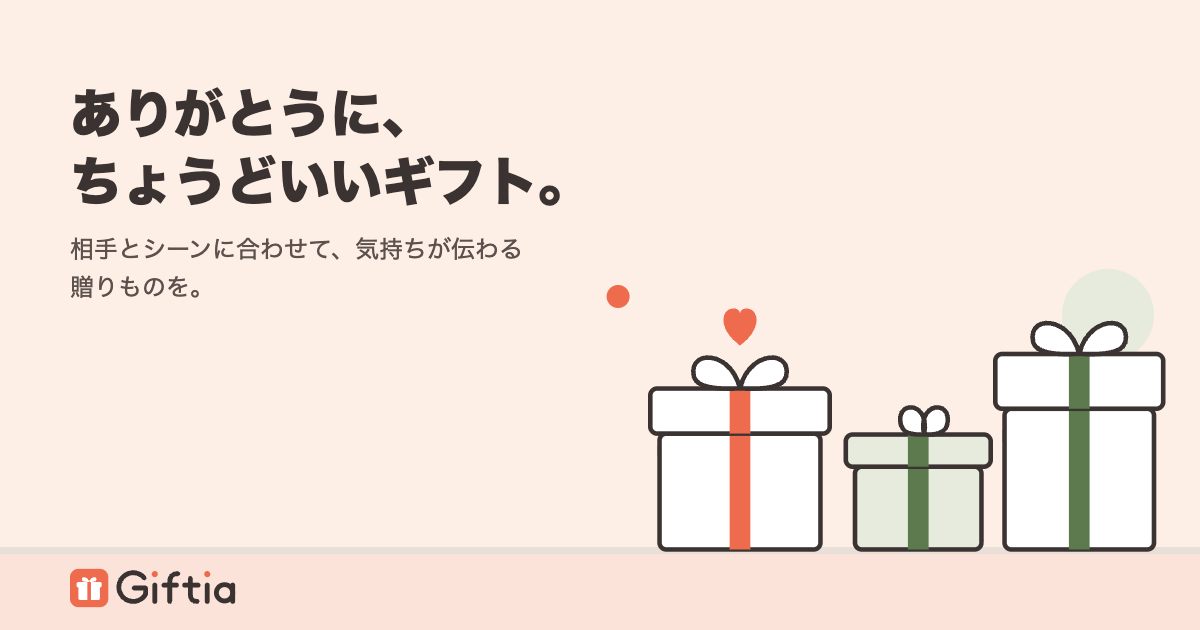
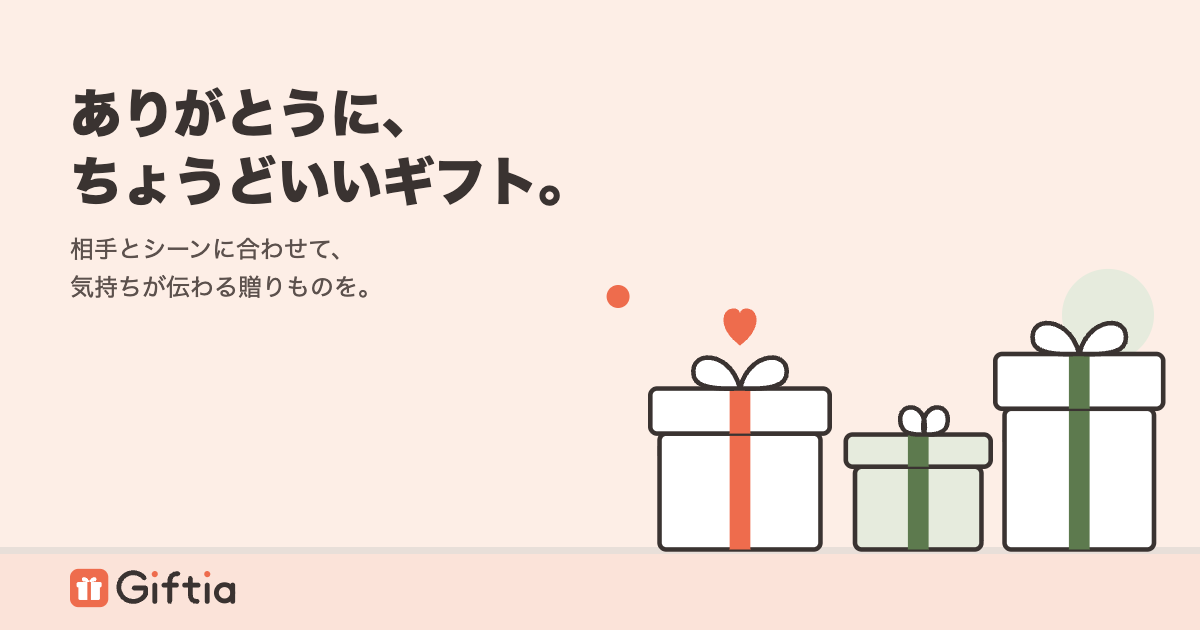
docs: ヒーローの下の行をどの幅でも 2 行に統一、トップ OGP も 2 行、899px 以下の高さ 360px（追記 23）。design/ の hero.css・check.png・ogp-top.png を差し替え

Changed region(s): [[0.0617, 0.3619, 0.4317, 0.4825]]

diff --git a/02_プロジェクト/giftia-ui-renewal/design/hero.css b/02_プロジェクト/giftia-ui-renewal/design/hero.css
@@ -4,6 +4,6 @@
 .hero .txt{position:absolute;left:48px;top:50%;transform:translateY(-50%);max-width:calc(100% - var(--ah)*1.445 - 48px - max(24px,4vw) - 24px)}
 .hero h1{margin:0 0 8px;font-size:30px;line-height:1.3;color:#3a3331}
 .hero p{margin:0;color:#5c514d;font-size:14px}
-.hero p span{display:inline-block}
-@media(max-width:899px){.hero{--ah:200px;height:350px}.hero .txt{left:16px;top:24px;transform:none;max-width:calc(100% - 32px)}.hero img{right:16px}}
-@media(max-width:480px){.hero h1{font-size:24px}.hero p span{display:block}}
+.hero p span{display:block}
+@media(max-width:899px){.hero{--ah:200px;height:360px}.hero .txt{left:16px;top:24px;transform:none;max-width:calc(100% - 32px)}.hero img{right:16px}}
+@media(max-width:480px){.hero h1{font-size:24px}}

diff --git a/02_プロジェクト/giftia-ui-renewal/仕様.md b/02_プロジェクト/giftia-ui-renewal/仕様.md
@@ -24,8 +24,8 @@ R-01（共同購入者）の導線から書く（ADR-002）。決定の根拠は
 | SP-16 | F-20, F-21, F-23 | 検索結果のカードを見る。詳細を開く | 結果あり / 詳細の欄 | 設計.md 参照（D-01・D-28・D-29・D-34） | なし（読み取りのみ） | **決め手の 1 行**（第2弾 P）。並びと文言（PR で PM が確かめる）: ①「📦 {M}/{D}までに届く（目安）」（`delivery_days` が値ありのとき。日付は SP-26） ②「🎀 ラッピング可」（`gift_wrap`＝1 のとき。不可と値なしは出さない。SP-03 と同じ） ③「在庫あり」（`stock` が1以上のとき。G9。在庫なし（0）は今どおり詳細の「在庫なし」（SP-12）で、決め手には出さない） ④「{シーン}で{n}回」（シーンを選んでいて、回数 n が1以上のとき。0 は出さない）。絵文字は飾りで、意味は文字で伝える（読み上げでは絵文字を読ませない）。値の無い決め手は出さない（値を作らない。OPEN-06）。カード（SP-11・SP-15）と詳細（SP-12）で、同じ商品なら同じ値・並び・文言。**回数の数え方**: 送別＝推定シーン「送別」かつ会社宛て（今の D-04 と同じ）、お礼＝「ビジネスのお礼」、誕生日＝「友人への誕生日」と「家族への誕生日」の合計。「毎年決まった相手への贈答」は数えない（確定。PM 11/14「回数は案通り」）。シーンを選んでいない画面（R-02 の一覧、トップのおすすめから開いた詳細）では④を出さない（P-1「選んだシーンに合わせて出す」）。トップのおすすめのカード（SP-30）にも同じ1行を出す |
 | SP-17 | F-22 | 詳細を開く | 詳細の欄 | 設計.md 参照（D-29・D-35） | なし（読み取りのみ） | **贈った人の声**（第2弾 P。欄の名前は決定 2026-11-13）。選び方: その商品の `reviews` のうち、`rating` が4以上、`comment` が NULL でなく空白だけでもない行を、`posted_at` の新しい順（同じ日は本文の文字の順）に並べ、本文が一字一句同じ行は1件にまとめ、最大2件。0件なら欄ごと出さない（見出しも出さない）。出すのは本文（「」で囲む）と星（「★5」）だけ。投稿した人の ID・名前・投稿日は出さない（N-13）。長い文は切らずに全文を出す（PR で PM が確かめる）。架空データには商品とシーンが合わない声がある（例: ハンドクリームに「出産祝いに」）が、今回は除かない（ADR-008）。置き場所は詳細の欄の決め手（SP-16）のすぐ下 |
 | SP-18 | F-24, F-25, F-26 | 詳細・お気に入り・カートで「カートに入れる」「注文へ進む」を押す。行の商品名を押す | 詳細の欄 / お気に入りのパネル / カートのパネル | 設計.md 参照（D-29・D-30・D-31） | ブラウザ内の保存だけ | **買う手前の行き止まりをなくす**（第2弾 U-12・14・15）。①詳細（U-14）: 在庫0（`status`＝`out_of_stock`）の商品は、「カートに入れる」を「在庫なし」の文字にして押せなくする。②お気に入りのパネル（U-12）: 各行に「カートに入れる」（SP-14 の追加と同じ動き。通知も同じ）を置く。在庫0は①と同じく押せない。「この商品は見つかりません」（404）の行には置かない。行の商品名を押すと、パネルを閉じて検索結果の詳細の欄でその商品を開く（`/search?product=…`。SP-09 のおすすめと同じ開き方）。③カートのパネル（U-15）: 買える商品（販売終了・在庫なし・読めない商品を除いた商品）が0件のとき、「注文へ進む」を押せなくし、ボタンのすぐ上に「買える商品がありません」と出す（空のカートも0件）。1件以上なら今どおり押せて「デモのため、注文はできません」。各行に小さい画像（カテゴリー共通イラスト「イメージ」）と、商品名から②と同じ開き方で詳細を開く道を置く（販売終了の行は商品が無いので画像も道も置かない）。パネルの下に「買い物を続ける」を置き、押すとパネルを閉じて検索結果（`/search`）へ移る。すでに検索結果にいるときは閉じるだけで、条件は変えない。どのボタンも縦横44px 以上（N-12） |
-| SP-19 | F-28 | ブラウザのタブを見る。共有リンクを LINE などに貼る | — | なし（固定のページ情報） | なし | **アイコンと OGP**（第2弾 U-21）。サイトのアイコン（favicon）を全ページに置く（絵柄は Mi-rin の案 A「オレンジの贈り物」。PM 11/14「アイコンは案Aで」）。プレビュー（OGP）はページごとに画像・タイトル・説明を出し分け、画像は2枚（PM 11/14「1で。分けることで進めて」。絵はどちらもヒーローの案 A。PM 11/14「案Aがいいですが、文字と絵が被ってるところが気になります」）。①共有ページ（`/s/…`）: 画像は「どれがいいと思う？／いいねで教えて。」の固定の1枚、説明「どれがいいと思う？いいねで教えて。」、タイトル「Giftia の贈りもの候補」（今どおり）。商品名・理由・価格は出さない（N-15）。noindex は今どおり（N-07）。②トップとその他のページ: 画像は今のサイトの見出し「ありがとうに、ちょうどいいギフト。」と下の行「相手とシーンに合わせて、気持ちが伝わる贈りものを。」の固定の1枚、タイトル「Giftia」（今どおり）、説明は見出しと下の行をつないだ文（今の「ギフトを探して、仲間に共有リンクで送る」から変える。PM 11/15「今のサイトの見出しにしよう」）。**ロゴ（アイコン A ＋「Giftia」の文字。PM 11/15「アイコンをロゴにしよう。ヘッダーにも同じロゴを使おう」）**を、①②の画像の同じ場所（左下の帯）と、ヘッダーのロゴ（SP-08）に使う。ヘッダーのロゴの大きさは Mi-rin の仕上げ（設計 D-36・D-37（ファイルは `design/`））による。説明文はいいね（SP-28）と同じ版で公開する |
-| SP-20 | F-29 | トップと検索結果を見る | 共通 | なし | なし | **見た目の直し**（第2弾 T。CSS と画像だけで、動きは変えない）。T1 ヒーロー: ぼかした丸や点の飾りをやめ、画像1枚。画像は自作の案 A（並ぶ贈り物。Mi-rin 作。外の素材は使わない。T-3・G1。PM 11/14「案Aがいいですが、文字と絵が被ってるところが気になります」）。**どの幅（375px〜PC）でも、ヒーローの見出しの文字と絵が重ならない**（G1）。見出しの文は今のサイトの文のまま変えない（「ありがとうに、ちょうどいいギフト。」の2行と下の行「相手とシーンに合わせて、気持ちが伝わる贈りものを。」。確定。PM 11/15「今のサイトの見出しにしよう」）。768px で文字の下にできる空きは今のままでよい（確定。PM 11/15「やり切るので、落とさないです。速さはおっけー。をの部分は改行で読みやすく。768pxはおっけー。」）。下の行は、スマホの幅で「を。」のように1〜2文字だけが次の行に落ちないよう、読みやすい所で改行する（同じ PM 11/15）。480px 以下では「相手とシーンに合わせて、」の「、」の後で折って2行にし、481px 以上は1行（やり方は 設計 D-36・D-37（ファイルは `design/`） による）。T2 シーン・カテゴリーのタイル: 枠線を外し、白い面にする。T3 オレンジ（強調の色）: 選択中とロゴだけに使う。例外として「カートに入れる」「共有リストを作る」はオレンジ（T-2）。T4 カテゴリーのアイコン: 焦げ茶にして、文字と横に並べる。T5 商品カードの画像: 丸＋アイコンをやめ、色の面にする。「イメージ」の表示は小さく残す（OPEN-06）。T6 文字: 見出しは太く、価格は大きく、補足は小さく灰色。T5・T6 はトップのおすすめのカードと、検索結果のカード（R-01・R-02）に同じように当てる（T-4）。色は1か所の設定から使い（N-14）、文字と背景の差は WCAG AA（N-12）を守る |
+| SP-19 | F-28 | ブラウザのタブを見る。共有リンクを LINE などに貼る | — | なし（固定のページ情報） | なし | **アイコンと OGP**（第2弾 U-21）。サイトのアイコン（favicon）を全ページに置く（絵柄は Mi-rin の案 A「オレンジの贈り物」。PM 11/14「アイコンは案Aで」）。プレビュー（OGP）はページごとに画像・タイトル・説明を出し分け、画像は2枚（PM 11/14「1で。分けることで進めて」。絵はどちらもヒーローの案 A。PM 11/14「案Aがいいですが、文字と絵が被ってるところが気になります」）。①共有ページ（`/s/…`）: 画像は「どれがいいと思う？／いいねで教えて。」の固定の1枚、説明「どれがいいと思う？いいねで教えて。」、タイトル「Giftia の贈りもの候補」（今どおり）。商品名・理由・価格は出さない（N-15）。noindex は今どおり（N-07）。②トップとその他のページ: 画像は今のサイトの見出し「ありがとうに、ちょうどいいギフト。」と下の行「相手とシーンに合わせて、」／「気持ちが伝わる贈りものを。」（ヒーローと同じ2行。PM 11/15「2段に全て統一した方が綺麗じゃない？」）の固定の1枚、タイトル「Giftia」（今どおり）、説明は見出しと下の行をつないだ文（今の「ギフトを探して、仲間に共有リンクで送る」から変える。PM 11/15「今のサイトの見出しにしよう」）。**ロゴ（アイコン A ＋「Giftia」の文字。PM 11/15「アイコンをロゴにしよう。ヘッダーにも同じロゴを使おう」）**を、①②の画像の同じ場所（左下の帯）と、ヘッダーのロゴ（SP-08）に使う。ヘッダーのロゴの大きさは Mi-rin の仕上げ（設計 D-36・D-37（ファイルは `design/`））による。説明文はいいね（SP-28）と同じ版で公開する |
+| SP-20 | F-29 | トップと検索結果を見る | 共通 | なし | なし | **見た目の直し**（第2弾 T。CSS と画像だけで、動きは変えない）。T1 ヒーロー: ぼかした丸や点の飾りをやめ、画像1枚。画像は自作の案 A（並ぶ贈り物。Mi-rin 作。外の素材は使わない。T-3・G1。PM 11/14「案Aがいいですが、文字と絵が被ってるところが気になります」）。**どの幅（375px〜PC）でも、ヒーローの見出しの文字と絵が重ならない**（G1）。見出しの文は今のサイトの文のまま変えない（「ありがとうに、ちょうどいいギフト。」の2行と下の行「相手とシーンに合わせて、気持ちが伝わる贈りものを。」。確定。PM 11/15「今のサイトの見出しにしよう」）。768px で文字の下にできる空きは今のままでよい（確定。PM 11/15「やり切るので、落とさないです。速さはおっけー。をの部分は改行で読みやすく。768pxはおっけー。」）。下の行は、どの幅でも「相手とシーンに合わせて、」／「気持ちが伝わる贈りものを。」の2行にする（確定。PM 11/15「2段に全て統一した方が綺麗じゃない？」。前の決定「480px 以下だけ2行、481px 以上は1行」を置き換え）。文字の表記は今のサイトのまま（やり方は 設計 D-37（ファイルは `design/`） による）。T2 シーン・カテゴリーのタイル: 枠線を外し、白い面にする。T3 オレンジ（強調の色）: 選択中とロゴだけに使う。例外として「カートに入れる」「共有リストを作る」はオレンジ（T-2）。T4 カテゴリーのアイコン: 焦げ茶にして、文字と横に並べる。T5 商品カードの画像: 丸＋アイコンをやめ、色の面にする。「イメージ」の表示は小さく残す（OPEN-06）。T6 文字: 見出しは太く、価格は大きく、補足は小さく灰色。T5・T6 はトップのおすすめのカードと、検索結果のカード（R-01・R-02）に同じように当てる（T-4）。色は1か所の設定から使い（N-14）、文字と背景の差は WCAG AA（N-12）を守る |
 | SP-21 | F-39 | シーンなしの検索結果で並びを選ぶ | 結果あり | 設計.md 参照（D-28 の `sort`） | なし（読み取りのみ） | **並び替え**（第2弾 A1）。結果の見出しの右に、並びを選ぶ部品（おすすめ／安い順／評価順／早く届く順）。初期値は「おすすめ」（今の SP-11 の並び）。安い順＝価格の低い順、評価順＝評価の高い順（評価の無い商品は最後）、早く届く順＝配送日数の少ない順（値の無い商品は最後）。同じ値どうしの順は設計 D-43 の表のとおり（安い順・早く届く順は評価の高い順（評価なしは後ろ）→ 商品ID順、評価順はレビュー件数の多い順 → 商品ID順、おすすめは商品ID順）。選んだ並びは URL に持ち（「おすすめ」のときは付けない）、変えたら同じ条件のまま1ページ目に戻る。ページ送りは選んだ並びのまま。R-01 の10件（SP-15）には出さない |
 | SP-22 | F-40 | 詳細を開く。「最近見た商品」を見る | — | なし（ブラウザ内保存） | ブラウザ内の保存だけ | **最近見た商品**（第2弾 A2）。詳細の欄に商品が出たとき（404・失敗のときは入れない）、その商品IDを先頭に入れる。同じ商品は1件にまとめて先頭に移す。最大6件で、7件目を入れたら一番古いものを消す。検索結果の画面の下（ページ番号の下）に「最近見た商品」として新しい順に横に並べ、押すと詳細の欄を開く。0件・ブラウザに保存できないときは欄を出さない 第2弾の細部（確定（PM 11/15「1-3おすすめ通りで。4は読めた分だけ出す。5.つける」））: 1件のカードは画像（「イメージ」）・商品名（2行まで）・価格（税込）・届く日（目安。SP-26）。ハートと「カートに入れる」は付けず、カード全体が詳細を開くリンク（縦横44px以上）。横に並べる帯（カード幅140px、帯の中だけ横に動く）。置き場所は R-02 はページ番号の下、R-01 は10件の候補の下。在庫なしは価格の代わりに「在庫なし」。見つからない商品は出さず、保存からも消す。読み込めなかった商品は出さず、読めた分だけ出す。全部読めなかったときだけ「最近見た商品を読み込めませんでした」と「もう一度」（取り方は設計 D-47）。 |
 | SP-23 | F-41 | お気に入りのパネルで、比べたい商品を選んで「比べる」を押す | お気に入りのパネル | なし（詳細 API を使う） | なし | **お気に入りで比べる**（第2弾 A3）。各行に「比べる」の選択（チェック）を置く。2〜3件を選ぶと「比べる」ボタンが押せ、パネルの中に価格（税込）・届く日（目安。SP-26）・ラッピング・評価（件数）を商品ごとの列で並べる。3件選んでいる間は4件目を選べない。値の無い項目は空欄にせず「—」。一覧に置く常設の比較トレイは作らない（A-1） 第2弾の細部（確定（PM 11/15「1-3おすすめ通りで。4は読めた分だけ出す。5.つける」））: 選んでいる間は「比べる（{n}件選択中）」。表はパネルの中で一覧から替わる（重ねない）。列＝商品（見出しに画像・商品名（押すと詳細）・在庫なしの印）、行＝価格（税込）／届く日（目安）／ラッピング（あり・なし・—）／評価（「4.7（120件）」）。375px で収まり、収まらない幅は表の中だけ横に動く。表の上の「← お気に入りにもどる」か Esc で一覧に戻り、「比べる」ボタンへフォーカスが戻る（選択は残る）。パネルを閉じたら選択は全部外れる。表の中ではお気に入りを外せない。一覧で外した商品が選択中なら選択も外れ、2件未満で「比べる」は押せない。表を開いている間に別のタブでお気に入りが外れたら、その列を消し、2件未満なら一覧に戻って「比べる商品が2件未満になりました」。見つからない商品は表から除き「見つからない商品は比べられません」（設計 D-47）。各列の下に「カートに入れる」を付ける（PM 11/15「5.つける」）。押すとカートに入り、押した後の表示は詳細の「カートに入れる」と同じ（SP-14・SP-18）。販売終了・在庫なしの列は押せない（在庫なしは「在庫なし」）。ボタンは列の幅いっぱい、文字は 12px で 2 行に折ってよい（縦 44px 以上は保つ。375px の 3 列で 1 列が約 90px のため）（Mi-rin の確認 11/15。⑤の決定の細部）。 |
@@ -254,6 +254,7 @@ stateDiagram-v2
 | 2026-11-15 | SP-20・ADR-010（要件 N-03） | 落とす順番は未決、768px の空きは未決、K-10 の速さは AI の読み方 | 落とす順番は作らない（全部やり切る）。768px は今のまま。速さは確定。下の行は 1〜2 文字だけの行を作らない改行 | 仕上げの決定 | PM 11/15「やり切るので、落とさないです。速さはおっけー。をの部分は改行で読みやすく。768pxはおっけー。」 |
 | 2026-11-15 | SP-34・SP-06・SP-31（要件 N-03・N-09・N-16、要求 AC-21） | テスト設計で見つかった穴（第2弾-4〜8・10・11） | 30 分 0 秒は新しい訪問（K-4）、計測の印は URL の目印と合言葉（K-5）、販売終了の候補に「くわしく見る」を置かない（K-6）、250px 前後は 200〜300px（K-7）、新しい API の速さは第1弾と同じ基準（K-10）、消す手順は Terao 案を `DB管理手順.md` へ（K-11） | 期待結果を決められなかった | PM 11/15「7件ともおすすめ通りで」 |
 | 2026-11-15 | SP-19・SP-20・SP-08 | 見出しは仮「贈り物、いっしょに選ぼう」、トップの OGP もその文。ヘッダーは文字のロゴ | 見出しは今のサイトの文のまま。トップの OGP は今の見出し＋下の行。ロゴ（アイコン A＋「Giftia」）を OGP 2 枚の左下の帯とヘッダーに使う | 今の文で伝わる。ロゴを 1 つにそろえる | PM 11/15「今のサイトの見出しにしよう」「アイコンをロゴにしよう。ヘッダーにも同じロゴを使おう」 |
+| 2026-11-15 | SP-20・SP-19 | 下の行は 480px 以下だけ「、」の後で 2 行、481px 以上は 1 行 | どの幅でも 2 行。トップ用の OGP 画像も同じ 2 行。899px 以下のヒーローの高さは 360px（設計 D-37） | 2 行にそろえた方が綺麗 | 確定（PM 11/15「2段に全て統一した方が綺麗じゃない？」、god 追記 23） |
 | 2026-11-14 | SP-28 | いいねの取り消しは「案」（要件 F-34・要求 AC-20 は「もう一度は押せない」） | もう一度押すと取り消す（数は 0 を下回らない）に 3 文書でそろえた | 指示書 4 章 L と設計 D-39 の `on:false`。テスト設計「仕様に書かれていないこと」第2弾-2 | god 追記 13（指示書 4 章 L の決定に合わせる） |
 | 2026-11-14 | SP-21・SP-25 | 同じ値どうしは「おすすめ順（案）」「商品ID順（案）」 | 設計 D-43・D-42 の次の基準にそろえた | 仕様と設計の食い違い（テスト設計 第2弾-3） | god 追記 13 |
 | 2026-11-14 | SP-13・SP-23 | 決定 2026-11-13「比較トレイは作らない」 | お気に入りの中だけで2〜3件を比べる（A3）。一覧に置く常設の比較トレイは作らないまま | A3 はお気に入りの中だけの機能 | A-1 確定（PM 11/14） |

diff --git a/02_プロジェクト/giftia-ui-renewal/設計.md b/02_プロジェクト/giftia-ui-renewal/設計.md
@@ -248,7 +248,7 @@ LIMIT 2;
 - アイコン: 案 A（オレンジの贈り物。PM 11/14「アイコンは案Aで」）。仕上げは `design/`（Mi-rin 作。実装でそのまま `frontend/public/` に置く。`icon.svg` を `<link rel="icon" type="image/svg+xml">`、`icon-180.png` を apple-touch-icon、`icon-192/512.png`）。自作で外の素材は使わない。
 - OGP 画像は 2 枚に分け、ページごとに `og:image`・`twitter:image`・タイトル・説明を出し分ける（PM 11/14「1で。分けることで進めて」）。どちらもヒーロー案 A から作った 1200×630 の PNG（SVG は多くのプレビューで出ないため PNG）。仕上げは `design/ogp-share.png`・`design/ogp-top.png`（Mi-rin 作。左下の帯にロゴ、床の帯は左右の端まで通る）。`twitter:card` は `summary_large_image`。
 - 共有ページ（`src/app/s/[share_id]/page.tsx` の固定の `metadata`）: 画像 `ogp-share.png`（「どれがいいと思う？／いいねで教えて。」）、`description` と `og:description` に「どれがいいと思う？いいねで教えて。」。タイトルは今どおり「Giftia の贈りもの候補」。DB も共有リンクの中身も読まないので、商品名は枠の HTML に入らない（N-15）。いいね（D-39）と同じ版で公開する。
-- トップとその他のページ（`src/app/layout.tsx` の `metadata`。共有ページは上で上書き）: 画像 `ogp-top.png`（今のヒーローの見出し「ありがとうに、ちょうどいいギフト。」と下の行「相手とシーンに合わせて、気持ちが伝わる贈りものを。」。`frontend/src/app/page.tsx` の文のまま）、タイトル「Giftia」（今どおり）、`description` と `og:description` に見出しと下の行をつないだ文（PM 11/15「今のサイトの見出しにしよう」）。
+- トップとその他のページ（`src/app/layout.tsx` の `metadata`。共有ページは上で上書き）: 画像 `ogp-top.png`（今のヒーローの見出し「ありがとうに、ちょうどいいギフト。」と下の行「相手とシーンに合わせて、」／「気持ちが伝わる贈りものを。」の 2 行（ヒーローと同じ。PM 11/15「2段に全て統一した方が綺麗じゃない？」）。`frontend/src/app/page.tsx` の文のまま）、タイトル「Giftia」（今どおり）、`description` と `og:description` に見出しと下の行をつないだ文（PM 11/15「今のサイトの見出しにしよう」）。
 - ロゴ: ロゴ（アイコン A ＋「Giftia」の文字。PM 11/15「アイコンをロゴにしよう。ヘッダーにも同じロゴを使おう」）。仕上げは `design/logo.svg`（Mi-rin 作。viewBox 174.5×48。文字は太さ 5.1・丸い端の線で描いた図形でフォントに依存しない。「i」の点はアイコンのオレンジ、文字は焦げ茶 `#3a3331`。確定 PM 11/15「中間より少し細いで」）。OGP 画像 2 枚の同じ場所（左下の帯）に入れ、共通ヘッダー（D-25）の今のロゴ（`globals.css` の `.logo`、CSS のアイコン＋文字）を `<img src="/logo.svg" alt="Giftia">` に替え、`Link href="/"` で包む（押すとトップへ、は今どおり）。ヘッダーでの高さは 28px で幅約 102px（480px 以下は 24px で約 87px）。375px のヘッダーでロゴの右端と一番左のボタンの間は約 83px 空く。OGP 画像では左下の帯に高さ 46px・左 70px・下 19px（幅約 168px）で置く。押せる範囲は `min-height: 44px` を残す（N-12）。見本は `design/header-sample.png`。
 
 ### 見た目の直し（D-37）
@@ -256,10 +256,10 @@ LIMIT 2;
 - 色・文字の大きさ・太さは、今の色の変数（N-14）に足して 1 か所で直す。オレンジは「選択中」「ロゴ」「カートに入れる」「共有リストを作る」だけ（T3・T-2）。
 - ヒーロー（T1）は自作の案 A（並ぶ贈り物。PM 11/14「案Aがいいですが、文字と絵が被ってるところが気になります」。T-3・G1）の画像 1 枚にし、ぼかした丸や点の飾りの CSS をやめる。仕上げは `design/hero.svg`（絵だけ。背景透明、viewBox 520×360、約 2KB）と `design/hero.css`（Mi-rin 作。値の正はこの CSS）。値:
   - 900px 以上: ヒーローの高さ 340px。絵は高さ 320px（幅 462px）を右下（`right: max(24px, 4vw); bottom: 0`）。文字は左 48px・縦の中央。文字の最大幅は `calc(100% - 絵の高さ×1.445 - 48px - max(24px,4vw) - 24px)`（1024px・1280px で約 348px）。
-  - 899px 以下: ヒーローの高さ 350px（見出し 2 行＋下の行で約 112px のため）。文字は上（左 16px・上 24px、最大幅 `calc(100% - 32px)`）。絵は高さ 200px（幅 289px）を右下（右 16px）。
+  - 899px 以下: ヒーローの高さ 360px（見出し 2 行＋下の行 2 行で約 128px になり、絵の枠にかからないため。前は 350px）。文字は上（左 16px・上 24px、最大幅 `calc(100% - 32px)`）。絵は高さ 200px（幅 289px）を右下（右 16px）。
   - 見出しは今の `top.module.css` のまま（30px・行間 1.3・下の余白 8px、480px 以下は 24px）。下の行は 14px。色は見出し `#3a3331`、下の行 `#5c514d`。背景は `#fdeee6`、床の帯は絵の高さの 20%（`--ah` で連動、境の線 `#e8dfd9`、帯 `#fbe3d9`）。角の丸み 8px。
   - 絵は常に右下に置き、`object-position` は使わない（切り抜かない）。
-  - 重ならないことは `design/check.png`（320・375・414・480・768・1024・1280px に本当の見出しを実寸で置いた図。全部重なり 0）で確かめた。**どの幅（375px〜PC）でも見出しの文字と絵が重ならない**（G1）。見出しは今のサイトの文のまま（「ありがとうに、ちょうどいいギフト。」の 2 行＋下の行。確定。PM 11/15）で、重ならないことはこの文で確かめる。768px の空きは今のままで確定（PM 11/15）。下の行はスマホの幅で 1〜2 文字だけの行を作らないよう、480px 以下で「、」の後で折る（PM 11/15）。書き方: `<p><span>相手とシーンに合わせて、</span><span>気持ちが伝わる贈りものを。</span></p>` とし、`span { display: inline-block }`（481px 以上は 1 行）、`@media (max-width: 480px) { span { display: block } }`（480px 以下は「、」の後で 2 行。各行 13 文字・約 182px なので 320px でも折り返さない）。`<br>` は使わない（読み上げと広い画面で不要な改行になるため）。実機と Safari では未確認（評価までに NF-49 で確かめる）。
+  - 重ならないことは `design/check.png`（320・375・414・480・768・1024・1280px に本当の見出しを実寸で置いた図。全部重なり 0）で確かめた。**どの幅（375px〜PC）でも見出しの文字と絵が重ならない**（G1）。見出しは今のサイトの文のまま（「ありがとうに、ちょうどいいギフト。」の 2 行＋下の行。確定。PM 11/15）で、重ならないことはこの文で確かめる。768px の空きは今のままで確定（PM 11/15）。下の行はどの幅でも「、」の後で 2 行（確定。PM 11/15「2段に全て統一した方が綺麗じゃない？」。前の「480px 以下だけ 2 行」を置き換え）。書き方: `<p><span>相手とシーンに合わせて、</span><span>気持ちが伝わる贈りものを。</span></p>` とし、`span { display: block }`（幅による切り替えはしない。各行 13 文字・約 182px なので 320px でも折り返さない）。900px 以上は 340px のまま 2 行で収まる。`design/check.png` は 2 行で作り直した（全幅で重なり 0）。`<br>` は使わない（読み上げと広い画面で不要な改行になるため）。実機と Safari では未確認（評価までに NF-49 で確かめる）。
 - カードの画像（T5）は、カテゴリーごとの色の面に「イメージ」を小さく重ねる。トップのおすすめと検索結果のカードで同じ部品（D-46）。
 - カテゴリーの並びは T-5 の 1 つの定数（トップ・検索結果、PC・スマホで共通）。スマホで最初に出す 4 つは、その定数の先頭 4 つ（食品・飲料・生活雑貨・フラワー）。
 - 動きは変えない。今のテストがそのまま通ることで確かめる。
